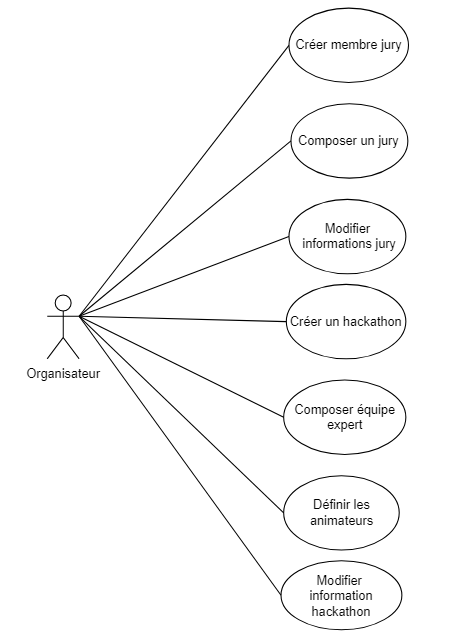
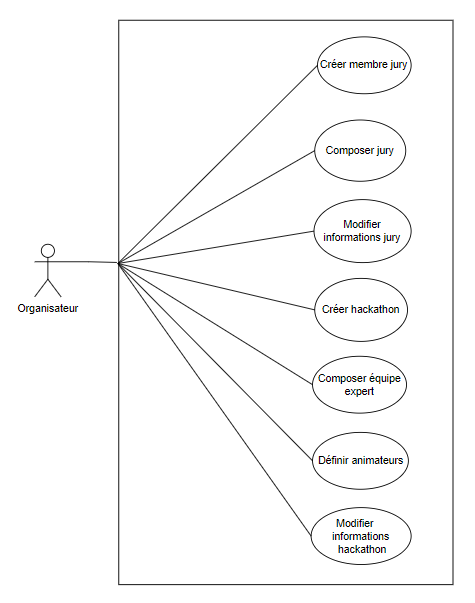
add changes

diff --git a/horga.html b/horga.html
@@ -194,7 +194,7 @@
             Une nouvelle fois, nous avons réalisé un schéma UML comme nous l'avons fait pour Hackat'Web lors du premier Sprint.
             Voici les fonctionnalités que peut effectuer un organisateur quant à l'étape d'inscription d'un hackathon :
         </p>
-        <img class="img_uml" src="./img/projet_bts/Hackat_Orga/umlhorga.png" alt="" style="width:30vw;height:40vw; margin: 2vw auto 1vw auto">
+        <img class="img_uml" src="./img/projet_bts/Hackat_Orga/umlhorga.png" alt="" style="width:33vw;height:40vw; margin: 2vw auto 1vw auto">
         <div class="legende_img">Fonctionnalités de l'organisateur</div>
 
         <div class="cardTop stage_cardTop">

diff --git a/hweb.html b/hweb.html
@@ -184,7 +184,7 @@
         <div class="legende_img">Fonctionnalités de l'animateur</div>
         <img class="img_uml" src="./img/projet_bts/Hackat_Web/umlhweb2.png" alt="" style=" margin: 4vw auto 1vw auto">
         <div class="legende_img">Fonctionnalités de l'organisateur</div>
-        <img class="img_uml" src="./img/projet_bts/Hackat_Web/umlhweb3.png" alt="" style="height: 35vw; margin: 4vw auto 1vw auto">
+        <img class="img_uml" src="./img/projet_bts/Hackat_Web/umlhweb3.png" alt="" style="height: 40vw; margin: 4vw auto 1vw auto">
         <div class="legende_img">Fonctionnalités de l'utilisateur et du visiteur</div>
 
         <div class="cardTop stage_cardTop">

diff --git a/hmanage.html b/hmanage.html
@@ -173,6 +173,8 @@
         <div class="legende_img">Fonctionnalités de l'expert</div>
         <img class="img_uml" src="./img/projet_bts/Hackat_Manage/uml2.png" alt="" style="width:35vw;height:40vw; margin: 2vw auto 1vw auto">
         <div class="legende_img">Fonctionnalités de l'animateur</div>
+        <img class="img_uml" src="./img/projet_bts/Hackat_Manage/uml2bis.png" alt="" style="width:35vw;height:40vw; margin: 2vw auto 1vw auto">
+        <div class="legende_img">Fonctionnalités de l'animateur (suite)</div>
 
 
         <!-- <div class="cardTop stage_cardTop">
